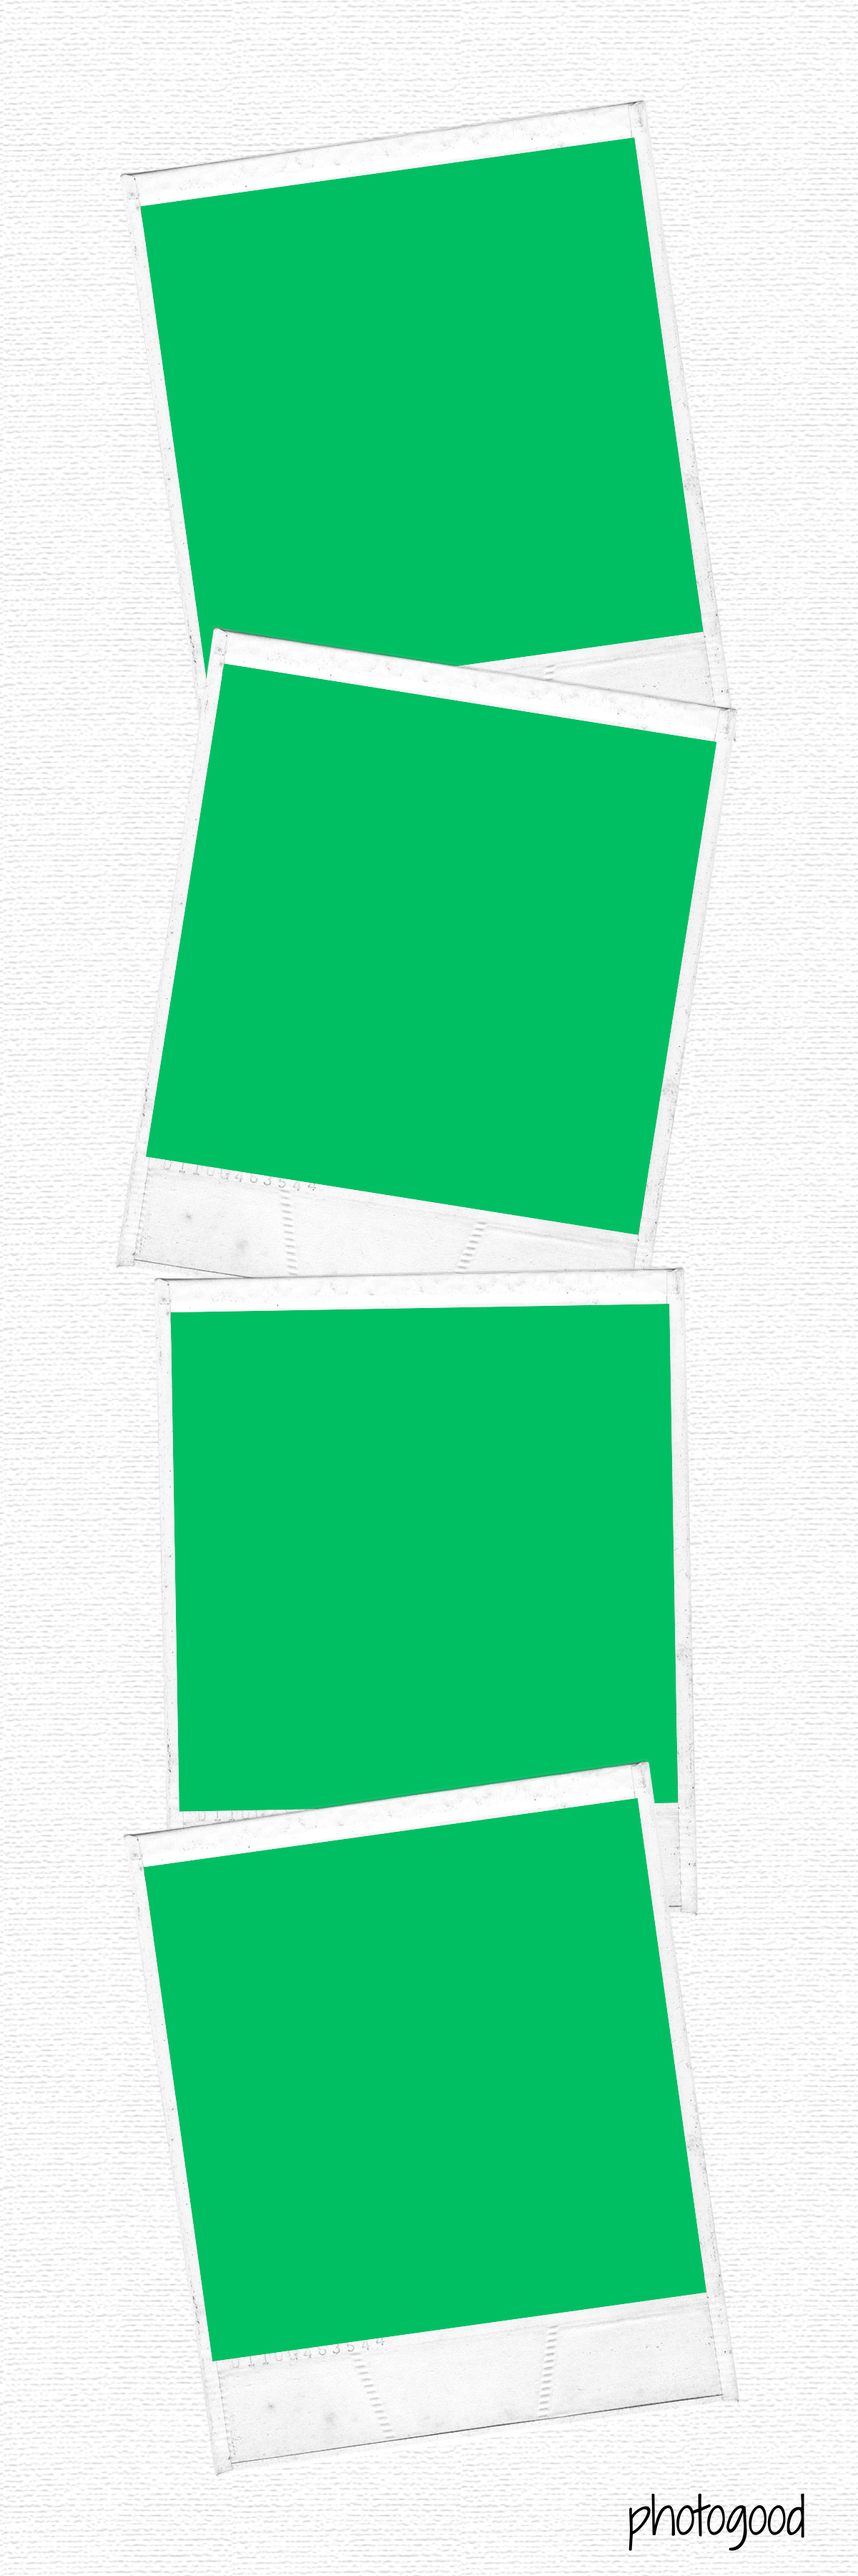
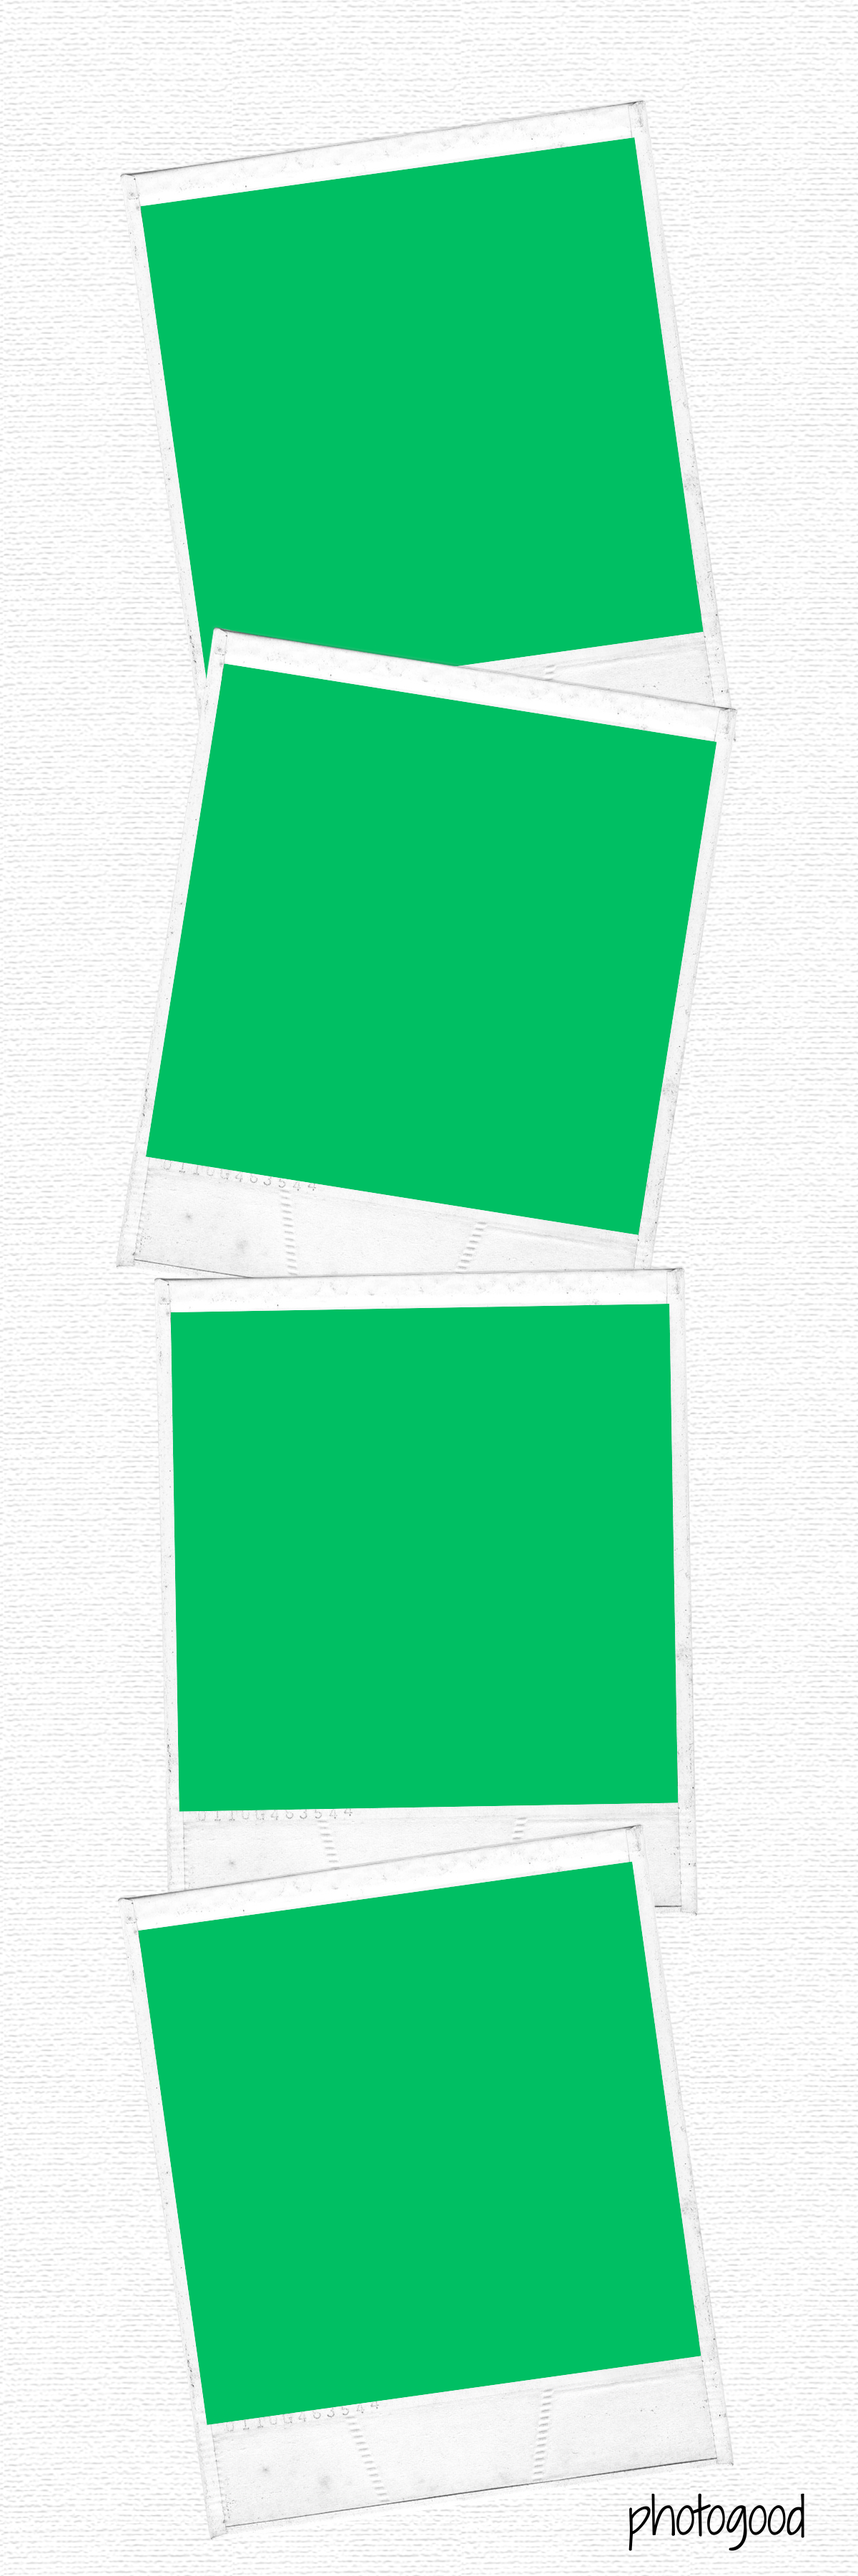
feat: update frame slots in FALLBACK_FRAMES for improved layout; increase photoCount to 4

Changed region(s): [[0.1542, 0.6844, 0.8325, 0.9644]]

diff --git a/lib/photobooth/frames.client.ts b/lib/photobooth/frames.client.ts
@@ -84,12 +84,13 @@ export const FALLBACK_FRAMES: ClientFrame[] = [
     publicUrl  : "/frames/family-polaroid.png",
     width      : 1200,
     height     : 3600,
-    photoCount : 3,
+    photoCount : 4,
     builtIn    : true,
     slots      : [
       { left : 202, top : 206,  width : 776, height : 718 },
       { left : 210, top : 942,  width : 786, height : 769 },
-      { left : 206, top : 1824, width : 777, height : 1463 },
+      { left : 240, top : 1824, width : 707, height : 706 },
+      { left : 199, top : 2615, width : 776, height : 760 },
     ],
   },
   {

diff --git a/lib/photobooth/config.ts b/lib/photobooth/config.ts
@@ -110,7 +110,8 @@ const BUILT_IN: FrameDef[] = [
     slots     : [
       { left : 202, top : 206,  width : 776, height : 718 },
       { left : 210, top : 942,  width : 786, height : 769 },
-      { left : 206, top : 1824, width : 777, height : 1463 },
+      { left : 240, top : 1824, width : 707, height : 706 },
+      { left : 199, top : 2615, width : 776, height : 760 },
     ],
   },
   {
